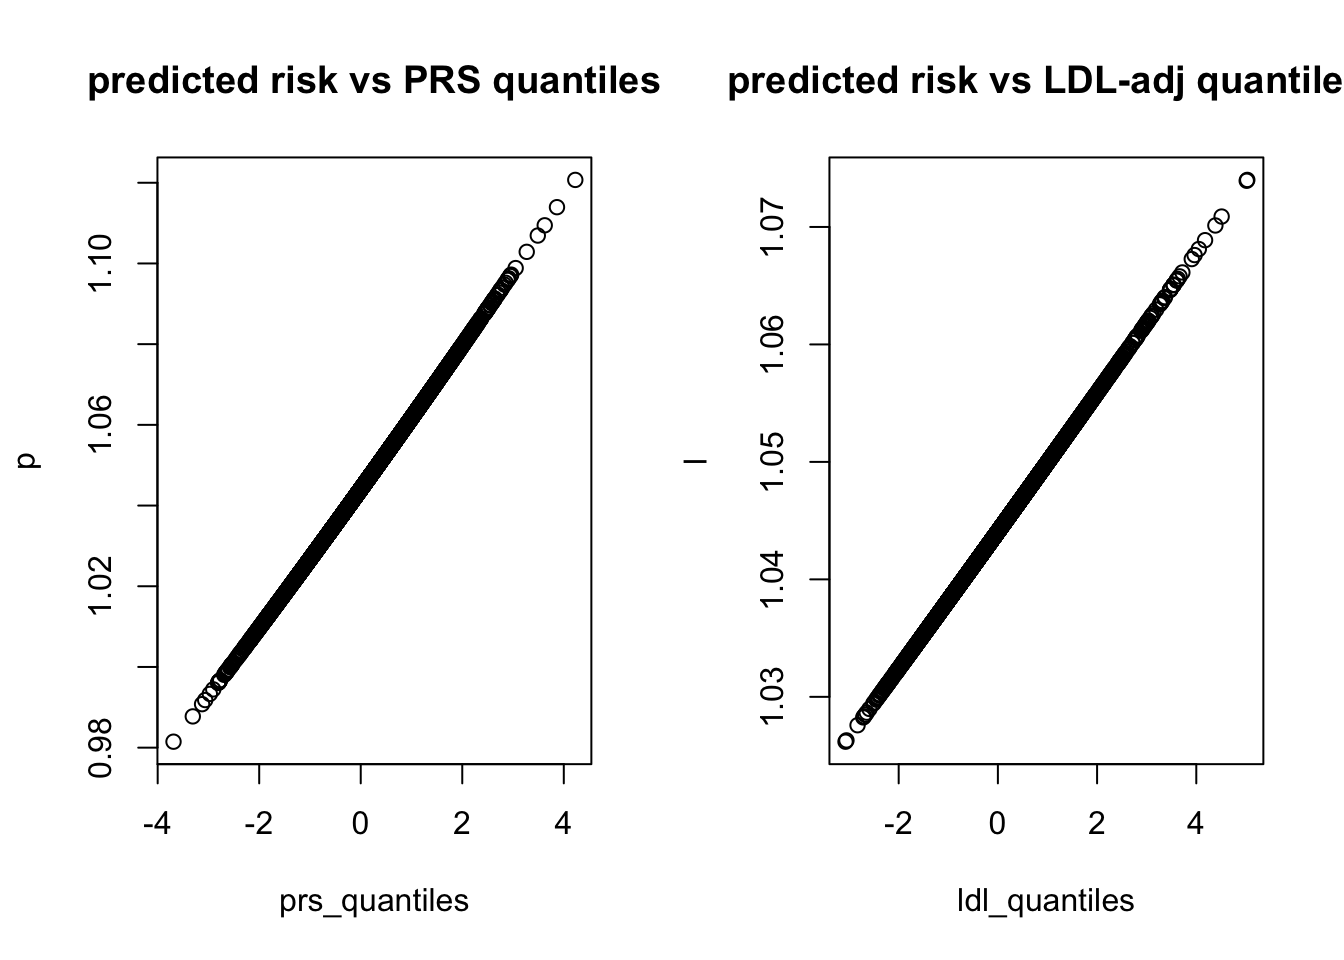
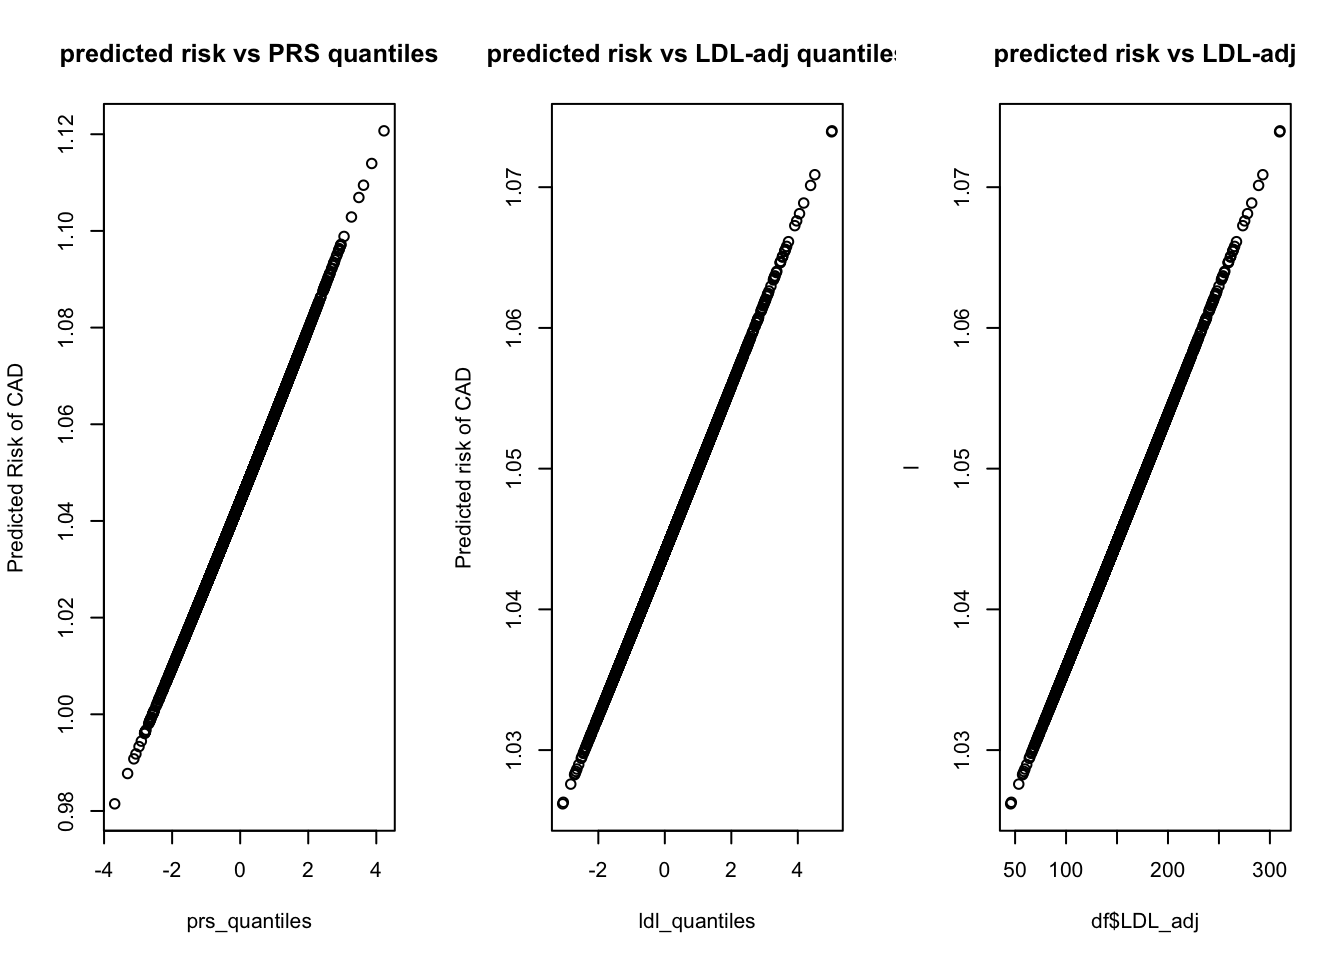
Build site.

diff --git a/docs/prs_equivalency.html b/docs/prs_equivalency.html
@@ -476,16 +476,16 @@ This reproducible <a href="http://rmarkdown.rstudio.com">R Markdown</a> analysis
 <div class="panel panel-default">
 <div class="panel-heading">
 <p class="panel-title">
-<a data-toggle="collapse" data-parent="#workflowr-checks" href="#strongRepositoryversionstrongahrefhttpsgithubcombroadinstitutenatarajanlabwikitreeeb2ea1afd50980e17d3b36ddca503218eda40ca1targetblankeb2ea1aa"> <span class="glyphicon glyphicon-ok text-success" aria-hidden="true"></span> <strong>Repository version:</strong> <a href="https://github.com/broadinstitute/natarajanlab_wiki/tree/eb2ea1afd50980e17d3b36ddca503218eda40ca1" target="_blank">eb2ea1a</a> </a>
+<a data-toggle="collapse" data-parent="#workflowr-checks" href="#strongRepositoryversionstrongahrefhttpsgithubcombroadinstitutenatarajanlabwikitree733145a38a260ffc2d591358a8da6424aa7c311ctargetblank733145aa"> <span class="glyphicon glyphicon-ok text-success" aria-hidden="true"></span> <strong>Repository version:</strong> <a href="https://github.com/broadinstitute/natarajanlab_wiki/tree/733145a38a260ffc2d591358a8da6424aa7c311c" target="_blank">733145a</a> </a>
 </p>
 </div>
[2 lines of base64/hex data omitted]
 <div class="panel-body">
 <p>
 Great! You are using Git for version control. Tracking code development and connecting the code version to the results is critical for reproducibility.
 </p>
 <p>
-The results in this page were generated with repository version <a href="https://github.com/broadinstitute/natarajanlab_wiki/tree/eb2ea1afd50980e17d3b36ddca503218eda40ca1" target="_blank">eb2ea1a</a>. See the <em>Past versions</em> tab to see a history of the changes made to the R Markdown and HTML files.
+The results in this page were generated with repository version <a href="https://github.com/broadinstitute/natarajanlab_wiki/tree/733145a38a260ffc2d591358a8da6424aa7c311c" target="_blank">733145a</a>. See the <em>Past versions</em> tab to see a history of the changes made to the R Markdown and HTML files.
 </p>
 <p>
 Note that you need to be careful to ensure that all relevant files for the analysis have been committed to Git prior to generating the results (you can use <code>wflow_publish</code> or <code>wflow_git_commit</code>). workflowr only checks the R Markdown file, but you know if there are other scripts or data files that it depends on. Below is the status of the Git repository when the results were generated:
@@ -545,6 +545,40 @@ Message
 </tr>
 </thead>
 <tbody>
+<tr>
+<td>
+Rmd
+</td>
+<td>
+<a href="https://github.com/broadinstitute/natarajanlab_wiki/blob/733145a38a260ffc2d591358a8da6424aa7c311c/analysis/prs_equivalency.Rmd" target="_blank">733145a</a>
+</td>
+<td>
+Your Name
+</td>
+<td>
+2021-09-11
+</td>
+<td>
+wflow_publish("analysis/prs_equivalency.Rmd")
+</td>
+</tr>
+<tr>
+<td>
+html
+</td>
+<td>
+<a href="https://rawcdn.githack.com/broadinstitute/natarajanlab_wiki/ba9b2fb46a52b817a7e9cb8569f9dabf4af8517b/docs/prs_equivalency.html" target="_blank">ba9b2fb</a>
+</td>
+<td>
+Your Name
+</td>
+<td>
+2021-09-11
+</td>
+<td>
+Build site.
+</td>
+</tr>
 <tr>
 <td>
 html
@@ -649,9 +683,10 @@ p=exp(predict(pr_logit))
 l=exp(predict(ldl_logit))</code></pre>
 <p>##Predicting Risk</p>
 <p>Now, we wish to consider how the quantiles of PRS risk compare to LDL, and how a model which includes only PRS or ldl_adjusted compares with cumulative distribution functions:</p>
-<pre class="r"><code>par(mfrow=c(1,2))
-plot(prs_quantiles,p,main=&quot;predicted risk vs PRS quantiles&quot;)
-plot(ldl_quantiles,l,main=&quot;predicted risk vs LDL-adj quantiles&quot;)</code></pre>
+<pre class="r"><code>par(mfrow=c(1,3))
+plot(prs_quantiles,p,main=&quot;predicted risk vs PRS quantiles&quot;,ylab=&quot;Predicted Risk of CAD&quot;)
+plot(ldl_quantiles,l,main=&quot;predicted risk vs LDL-adj quantiles&quot;,ylab=&quot;Predicted risk of CAD&quot;)
+plot(df$LDL_adj,l,main=&quot;predicted risk vs LDL-adj&quot;)</code></pre>
 <p><img src="figure/prs_equivalency.Rmd/unnamed-chunk-5-1.png" width="672" style="display: block; margin: auto;" /></p>
 <p>
 <button type="button" class="btn btn-default btn-xs btn-workflowr btn-workflowr-fig" data-toggle="collapse" data-target="#fig-unnamed-chunk-5-1">
@@ -692,7 +727,7 @@ Your Name
 </div>
 <pre class="r"><code>par(mfrow=c(1,2))
 plot(ecdf(p),main=&quot;CDF of predicted risk using PRS&quot;,xlab=&quot;Predicted Risk&quot;)
-plot(ecdf(l),main=&quot;CDF of predicted risk using LDL-adjusted&quot;,xlab=&quot;Predicted Risk&quot;)</code></pre>
+plot(ecdf(l),main=&quot;CDF of predicted risk usingLDL-adjusted&quot;,xlab=&quot;Predicted Risk&quot;)</code></pre>
 <p><img src="figure/prs_equivalency.Rmd/unnamed-chunk-5-2.png" width="672" style="display: block; margin: auto;" /></p>
 <p>
 <button type="button" class="btn btn-default btn-xs btn-workflowr btn-workflowr-fig" data-toggle="collapse" data-target="#fig-unnamed-chunk-5-2">
